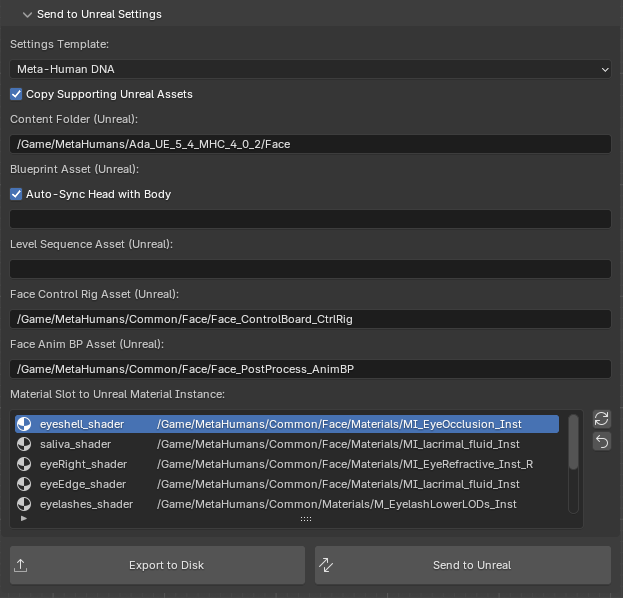
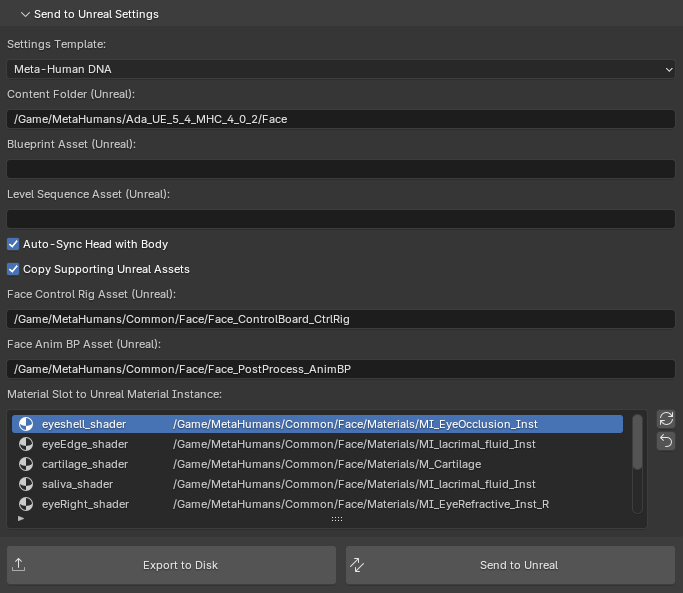
Updated documentation to include how to add curves for materials and morph targets

diff --git a/src/addons/meta_human_dna/ui/view_3d.py b/src/addons/meta_human_dna/ui/view_3d.py
@@ -624,21 +624,21 @@ class META_HUMAN_DNA_PT_send2ue_settings_sub_panel(bpy.types.Panel):
             row = self.layout.row()
             row.prop(instance, 'send2ue_settings_template', text='')
             row = self.layout.row()
-            row.prop(instance, 'unreal_copy_assets')
-            row = self.layout.row()
             row.label(text='Content Folder (Unreal):')
             row = self.layout.row()
             row.prop(instance, 'unreal_content_folder', text='')
             row = self.layout.row()
             row.label(text='Blueprint Asset (Unreal):')
             row = self.layout.row()
-            row.prop(instance, 'auto_sync_spine_with_body')
-            row = self.layout.row()
             row.prop(instance, 'unreal_blueprint_asset_path', text='')
             row = self.layout.row()
             row.label(text='Level Sequence Asset (Unreal):')
             row = self.layout.row()
             row.prop(instance, 'unreal_level_sequence_asset_path', text='')
+            row = self.layout.row()
+            row.prop(instance, 'auto_sync_spine_with_body')
+            row = self.layout.row()
+            row.prop(instance, 'unreal_copy_assets')
             row = self.layout.row()
             row.label(text='Face Control Rig Asset (Unreal):')
             row = self.layout.row()

diff --git a/docs/user-interface/output.md b/docs/user-interface/output.md
@@ -43,8 +43,7 @@ The [Send to Unreal Addon](https://github.com/poly-hammer/BlenderTools) is a fre
 
 Please read the [Quick Start](https://poly-hammer.github.io/BlenderTools/send2ue/introduction/quickstart/) on their documentation and get it all setup and working before continuing further.
 
-### Copy Supporting Unreal Assets
-Enable this to copy the referenced unreal assets (Control Rig, Anim BP, Materials Instances etc.) to the same folder as the face skeletal mesh asset if they don't already exist. This should be preferred as it is not a good idea to import on top of the original metahuman common assets. However, if you have a custom setup with different asset references, you can disable this option.
+
 
 ### Content Folder
 The content folder in your Unreal project where the assets will be imported. All data is copied or imported here.
@@ -52,21 +51,30 @@ The content folder in your Unreal project where the assets will be imported. All
 ### Blueprint Asset
 The asset path to the Metahuman Blueprint asset that the SkeletalMesh data will be bound to. If left empty, the blueprint will be created in the same folder as the SkeletalMesh asset.
 
-### Auto-Sync Head with Body
-Whether to automatically sync the head spine bone positions with the body spine bone positions. This uses the blueprint asset path to find the body skeleton. This will modify the objects in your blender scene.
-
 ### Level Sequence Asset
 The asset path to the Level Sequence that the blueprint actor will be added too. If the level sequence does not exist, it will be created. If left empty the blueprint will not be spawned into a level sequence.
 
+### Auto-Sync Head with Body
+Whether to automatically sync the head spine bone positions with the body spine bone positions. This uses the blueprint asset path to find the body skeleton. This will modify the objects in your blender scene.
+
+### Copy Supporting Unreal Assets
+Enable this to copy the referenced unreal assets (Control Rig, Anim BP, Materials Instances etc.) to the same folder as the face skeletal mesh asset if they don't already exist. This should be preferred as it is not a good idea to import on top of the original metahuman common assets. However, if you have a custom setup with different asset references, you can disable this option.
+
 ### Face Control Rig Asset
-The asset path to the Metahuman Face Board Control Rig asset that will drive the SkeletalMesh data. Note: if [Copy](#copy-supporting-unreal-assets) is on, this is the location to copy from and into the [Content Folder](#content-folder) rather than the actual path to the asset.
+The asset path to the Metahuman Face Board Control Rig asset that will drive the SkeletalMesh data. 
+
+!!! Note 
+    If [Copy Supporting Unreal Assets](#copy-supporting-unreal-assets) is on, this is the location to copy from and into the [Content Folder](#content-folder) rather than the actual path to the Control Rig asset.
 
 ### Face Anim BP Asset
-The asset path to the Face Post Process Animation Blueprint asset that will drive the SkeletalMesh data. Note: if [Copy](#copy-supporting-unreal-assets) is on, this is the location to copy from and into the [Content Folder](#content-folder) rather than the actual path to the asset.
+The asset path to the Face Post Process Animation Blueprint asset that will drive the SkeletalMesh data. 
+
+!!! Note
+    If [Copy Supporting Unreal Assets](#copy-supporting-unreal-assets) is on, this is the location to copy from and into the [Content Folder](#content-folder) rather than the actual path to the Anim BP asset.
 
 
 ### Material Slot to Unreal Material Instance
 This is a mapping between the material slot name in Blender and the respective Material (or Material Instance) asset path in the Unreal Project. The refresh button on the side can be used to update the list if you re-named materials in Blender. Also each material asset path can be customized. 
 
 !!! Note
-    If [Copy](#copy-supporting-unreal-assets) is on, this is the location to copy materials from and into the [Content Folder](#content-folder) rather than referencing these actual paths to the material asset.
+    If [Copy Supporting Unreal Assets](#copy-supporting-unreal-assets) is on, this is the location to copy materials from and into the [Content Folder](#content-folder) rather than referencing these actual paths to the material asset.

diff --git a/docs/textures.md b/docs/textures.md
@@ -1,0 +1,64 @@
+# Textures
+
+## Importing Textures
+When importing or converting a mesh to/from a DNA file, you are given an extra option to specify the `maps` folder location. By default, if a `maps` folder exists alongside the `.dna` file, the importer will use that, otherwise you can explicitly set the `maps` folder to your desired location.
+
+![](../images/textures/1.png){: class="rounded-image center-image" style="width:500px"}
+![](../images/textures/2.png){: class="rounded-image center-image" style="width:500px"}
+
+The importer will link any `.tga` or `.png` textures to the [Texture Logic](./terminology.md#texture-logic) node inputs that follow these patterns:
+
+### Pattern 1
+```
+Color_MAIN.tga -> Color_MAIN
+Color_CM1.tga -> Color_CM1
+Color_CM2.tga -> Color_CM2
+Color_CM3.tga -> Color_CM3
+Normal_MAIN.tga -> Normal_MAIN
+Normal_WM1.tga -> Normal_WM1
+Normal_WM2.tga -> Normal_WM2
+Normal_WM3.tga -> Normal_WM3
+Cavity_MAIN.tga -> Cavity_MAIN
+Roughness_MAIN.tga -> Roughness_MAIN
+```
+### Pattern 2
+```
+head_color_map.tga -> Color_MAIN
+head_cm1_color_map.tga -> Color_CM1
+head_cm2_color_map.tga -> Color_CM2
+head_cm3_color_map.tga -> Color_CM3
+head_normal_map.tga -> Normal_MAIN
+head_wm1_normal_map.tga -> Normal_WM1
+head_wm2_normal_map.tga -> Normal_WM2
+head_wm3_normal_map.tga -> Normal_WM3
+head_cavity_map.tga -> Cavity_MAIN
+head_roughness_map.tga -> Roughness_MAIN
+```
+
+## Custom Materials in Blender
+You can make a totally custom material node tree if you want. All you need to do is add a single
+[Texture Logic](./terminology.md#texture-logic) node to the graph, then link your material in the [Rig Logic Instance](./terminology.md#rig-logic-instance) outputs.
+
+![](../images/textures/3.gif){: class="rounded-image center-image"}
+
+With this set, now [RigLogic](./terminology.md#riglogic) will update the wrinkle map masks for you as the GUI control are evaluated.
+
+## Send to Unreal Integration
+
+The Send to Unreal process with do most of the major things like importing the Mesh with all the shape keys and linking Control Rig and the BPs and .dna file. Also it will import and link the 3 color/normal wrinkle map textures on the head material instance.
+
+The Texture Logic Node Input Names are 1-to-1 with Unreal Material Instance Parameter names. Any image node you plug into one of these inputs in blender will be exported and linked onto the material instance in unreal.
+
+* `Color_MAIN`
+* `Color_CM1`
+* `Color_CM2`
+* `Color_CM3`
+* `Normal_MAIN`
+* `Normal_WM1`
+* `Normal_WM2`
+* `Normal_WM3`
+* `Cavity_MAIN`
+* `Roughness_MAIN`
+
+![](../images/textures/4.png){: class="rounded-image center-image" style="height:400px"}
+![](../images/textures/5.png){: class="rounded-image center-image" style="height:400px"}

diff --git a/docs/unreal-configuration.md b/docs/unreal-configuration.md
@@ -1,0 +1,15 @@
+# Unreal Configuration
+
+## Project Setup
+Todo...
+
+## Asset Configuration
+
+### Curves
+The MetaHuman head skeleton needs both Material and Morph Target curves defined for RigLogic to work correcting in Unreal with the texture masks and shape keys. After your initial import of a new head SkeletalMesh, you will need to copy over the curve names from `/Game/MetaHumans/Common/Face/Face_Archetype_Skeleton` to your newly imported skeleton.
+
+![](../images/unreal-configuration/3.gif){: class="rounded-image center-image"}
+
+!!! note
+    If you added/renamed [expressions](https://dev.epicgames.com/documentation/en-us/metahuman/control-curves-driven-by-metahuman-animator) in your .dna file for new morph targets or texture masks,
+    you would need to ensure you add or rename these.

diff --git a/docs/terminology.md b/docs/terminology.md
@@ -10,7 +10,7 @@ This is the runtime evaluation system that powers Metahuman face rigs. The sourc
 
 However for the purposes of this addon, the most important thing to understand is that RigLogic ties together the relationships between 4 things. 1 input that drives 3 outputs.
 
-* Face Board GUI Controls (Ultimately these are the "Expressions" or "[Control Curves](https://dev.epicgames.com/documentation/en-us/metahuman/control-curves-driven-by-metahuman-animator?application_version=1.0)")
+* Face Board GUI Controls (Ultimately these are the "Expressions" or "[Control Curves](https://dev.epicgames.com/documentation/en-us/metahuman/control-curves-driven-by-metahuman-animator)")
 
 The Face board drives the following:
 
